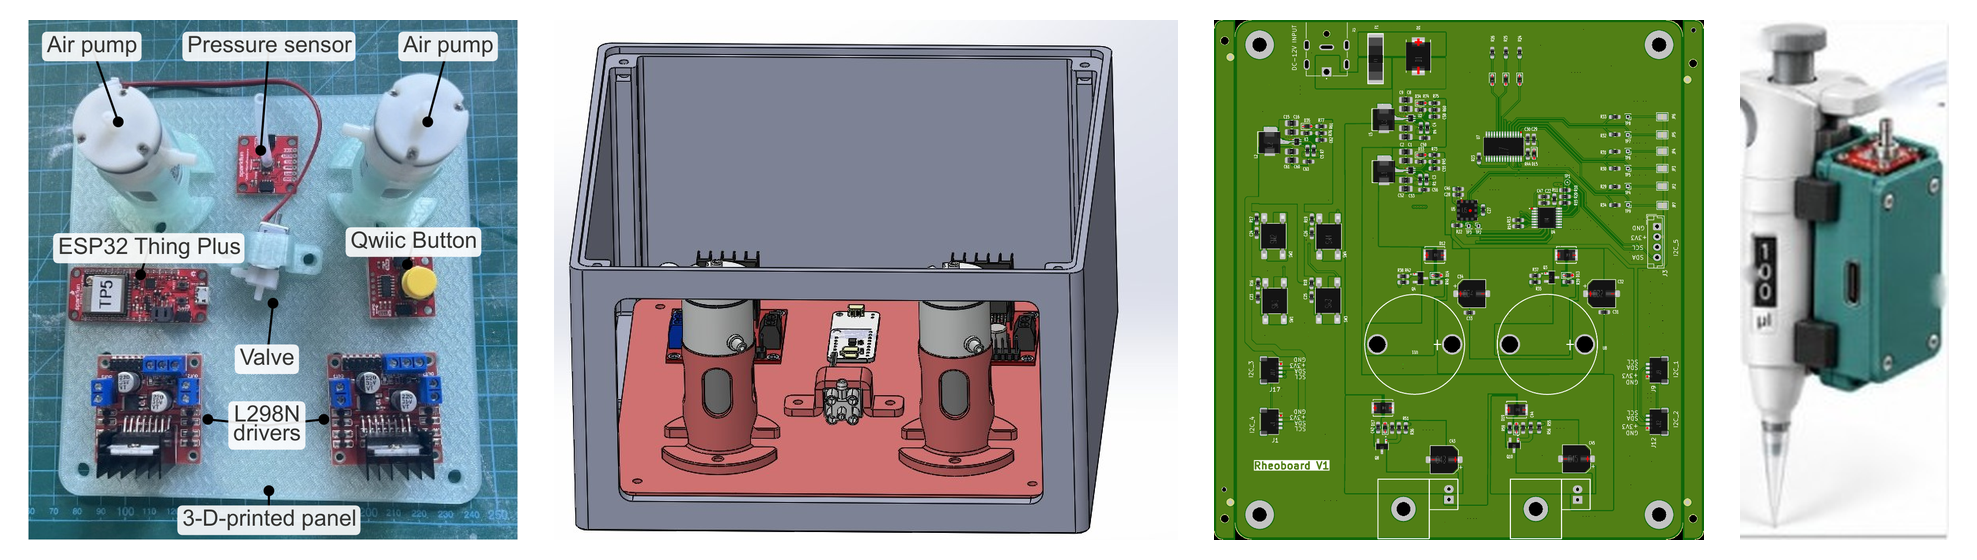
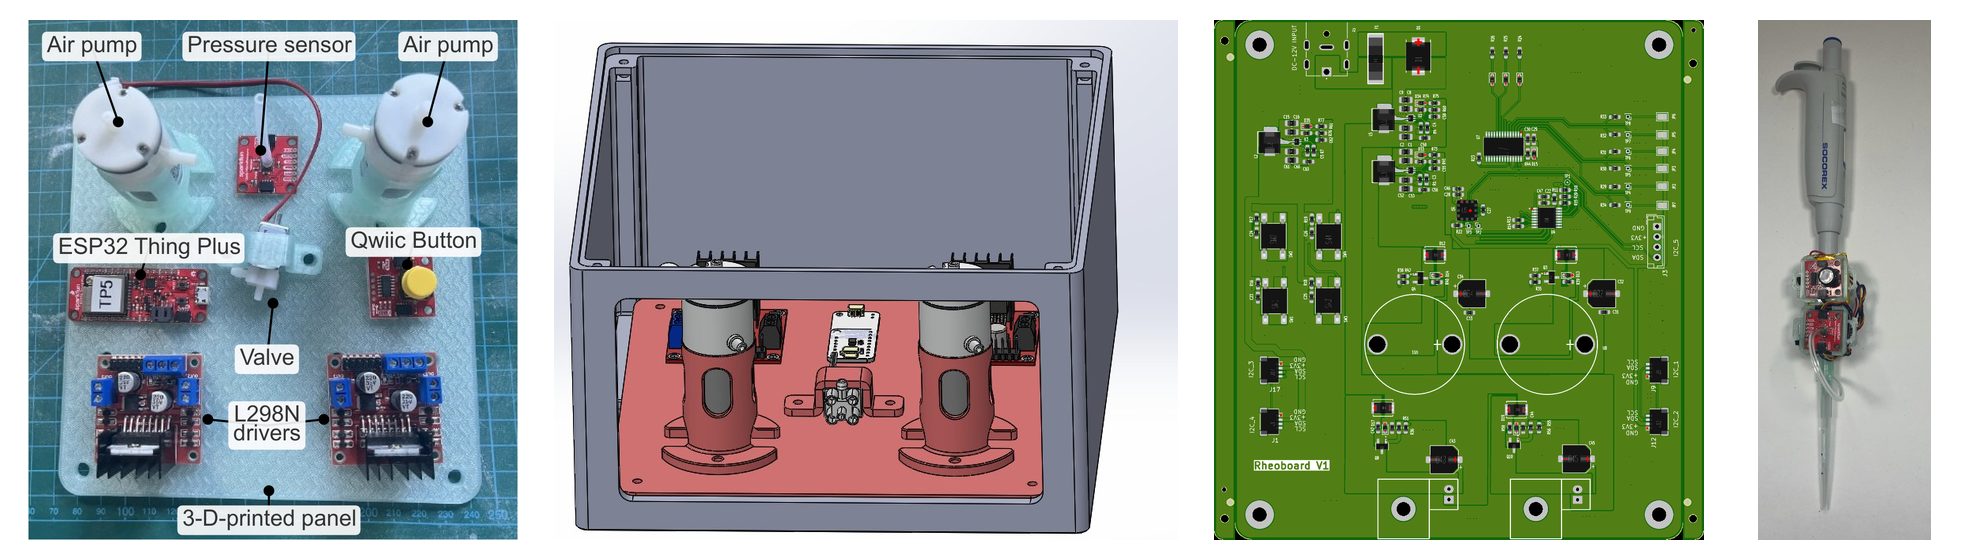
Replace the generated pipette picture with the current RheoBoardPipette photo.
The home figure and the old packaging sheet were still showing that render.

Changed region(s): [[0.8639, 0.0304, 0.9874, 0.9714]]

diff --git a/docs/img/README.md b/docs/img/README.md
@@ -1,3 +1,3 @@
 # Images
 
-Photos and figures for the public pages. Component photos support the [Parts to buy](https://github.com/The-Hybrid-Atelier/RheoBoard/wiki/Parts-to-buy) wiki page, and the source notes for these files are kept with the wiki images. Part folders are `air-pump-4699/`, `air-valve-4663/`, `attiny1616-seesaw/`, `battery-prt-26059/`, `esp32-thing-plus/`, `l298n/`, `power-adapter-alt-1202/`, `qwiic-button/`, `qwiic-micropressure/`, `silicone-tube-4661/`, `qwiic-cable/`, `micro-usb-cable/`, `ftllb220-6005/`, `gl45-bottle/`, and `teaser/`. `panel/` and `portable/` hold the panel and portable figures (`portable-concept.jpg`, `thing_plus_tray.png`, `micropressure_tray.png`, and `battery_tray.png`), and `home-versions.png` is the home figure. `hybrid-atelier-logo.png` is The Hybrid Atelier mark after the author line on the repository README. `rep-sensing-method.jpg` is the sensing-method diagram, `rep-how-a-rep-looks.jpg` is the chart on How a REP looks, `rep-pressure-trace.jpg` is an earlier pressure trace, `rep-bench.jpg` is the bench photo, `rep-sensing-and-bench.jpg` is an older side-by-side pair; the wiki shows the diagram and the bench photo as two pictures, and `rep-phase-schematic.jpg` is the phase schematic. The certification marks in this folder are `oshwa-certification-mark-US002865-wide.svg`, `oshwa-certification-mark-US002865-stacked.svg`, and `oshwa-license-facts.svg`. Vendor photos stay under their owners' terms.
+Photos and figures for the public pages. Component photos support the [Parts to buy](https://github.com/The-Hybrid-Atelier/RheoBoard/wiki/Parts-to-buy) wiki page, and the source notes for these files are kept with the wiki images. Part folders are `air-pump-4699/`, `air-valve-4663/`, `attiny1616-seesaw/`, `battery-prt-26059/`, `esp32-thing-plus/`, `l298n/`, `power-adapter-alt-1202/`, `qwiic-button/`, `qwiic-micropressure/`, `silicone-tube-4661/`, `qwiic-cable/`, `micro-usb-cable/`, `ftllb220-6005/`, `gl45-bottle/`, and `teaser/`. `panel/` and `portable/` hold the panel and portable figures (`rheoboard-pipette.jpg`, `thing_plus_tray.png`, `micropressure_tray.png`, and `battery_tray.png`), and `home-versions.png` is the home figure. The fourth panel of that figure is the current RheoBoardPipette photo. `hybrid-atelier-logo.png` is The Hybrid Atelier mark after the author line on the repository README. `rep-sensing-method.jpg` is the sensing-method diagram, `rep-how-a-rep-looks.jpg` is the chart on How a REP looks, `rep-pressure-trace.jpg` is an earlier pressure trace, `rep-bench.jpg` is the bench photo, `rep-sensing-and-bench.jpg` is an older side-by-side pair; the wiki shows the diagram and the bench photo as two pictures, and `rep-phase-schematic.jpg` is the phase schematic. The certification marks in this folder are `oshwa-certification-mark-US002865-wide.svg`, `oshwa-certification-mark-US002865-stacked.svg`, and `oshwa-license-facts.svg`. Vendor photos stay under their owners' terms.
